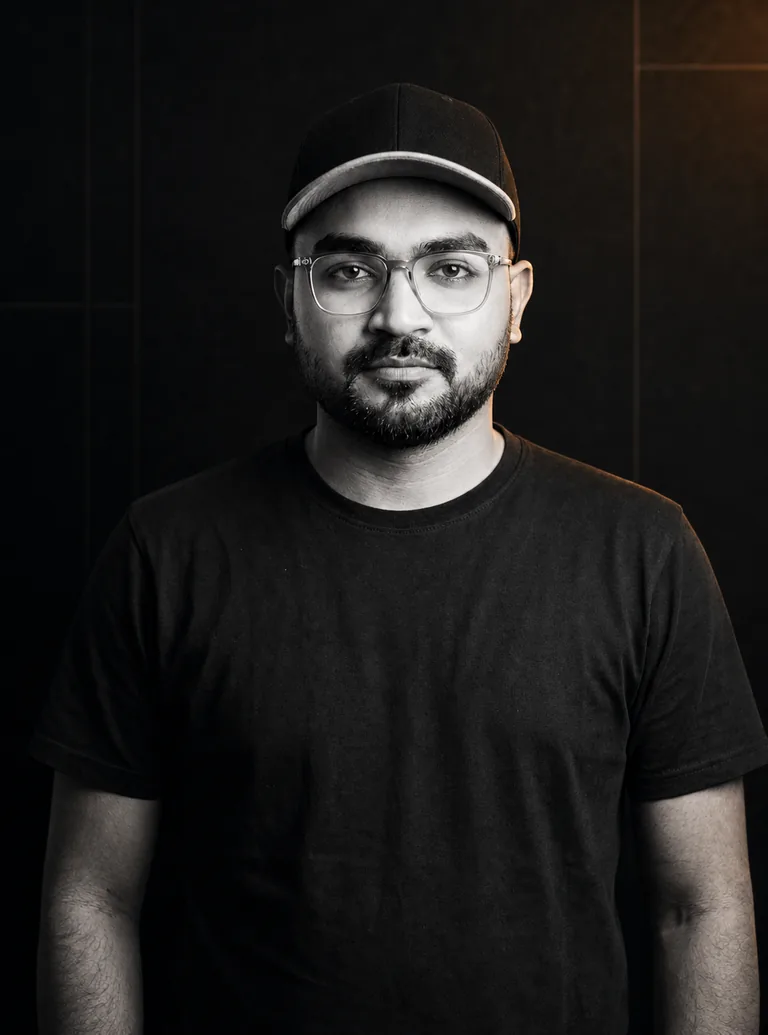
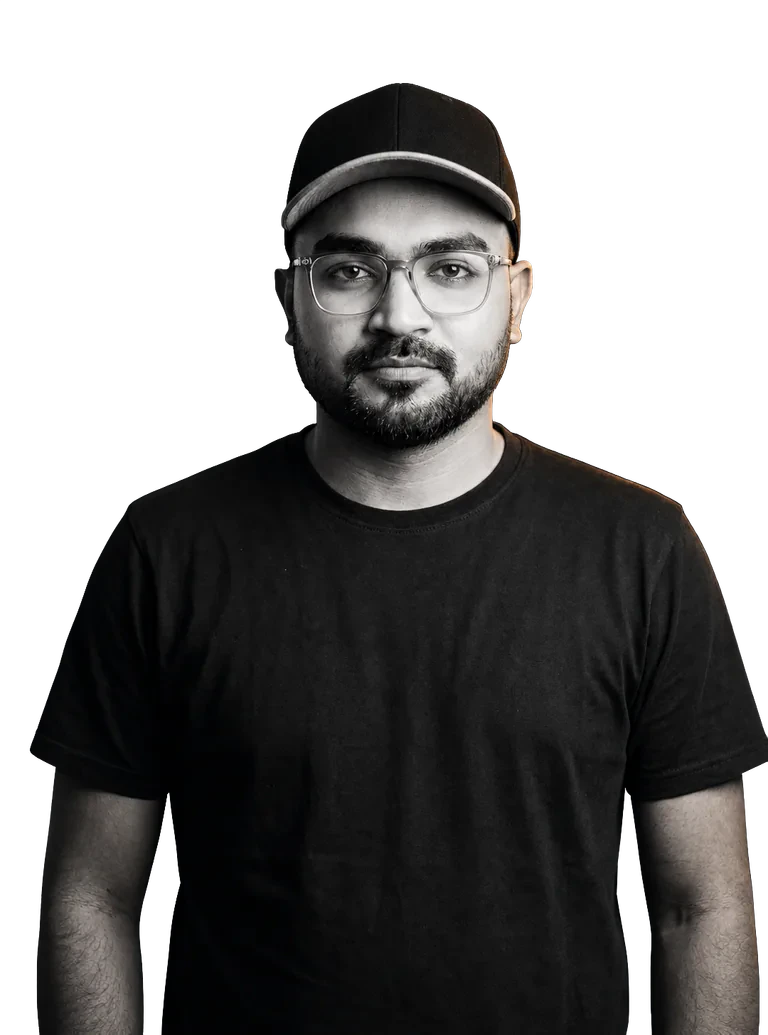
Update typography and animations across various sections
- Adjusted font weights in multiple components for consistency, changing from bold to medium in sections such as About, Blog, Contact, Experience, Projects, and Tech Stack.
- Updated animation parameters in the Hero section for improved visual performance.
- Replaced the editorial image in the public directory for enhanced visual appeal.

diff --git a/src/components/hero-section.tsx b/src/components/hero-section.tsx
@@ -15,10 +15,10 @@ export default function HeroSection() {
 
     animate(root.querySelectorAll(".hero-reveal"), {
       opacity: { from: 0 },
-      y: { from: 18 },
-      delay: stagger(85),
-      duration: 680,
-      ease: "out(4)",
+      y: { from: 12 },
+      delay: stagger(55),
+      duration: 520,
+      ease: "out(3)",
     })
 
     const portrait = root.querySelector(".editorial-portrait")
@@ -26,8 +26,8 @@ export default function HeroSection() {
       animate(portrait, {
         opacity: { from: 0 },
         clipPath: ["inset(0 0 100% 0)", "inset(0 0 0% 0)"],
-        duration: 900,
-        delay: 180,
+        duration: 720,
+        delay: 120,
         ease: "inOutCubic",
       })
     }
@@ -44,7 +44,7 @@ export default function HeroSection() {
             Software Engineer · Dhaka, Bangladesh
           </div>
 
-          <h1 className="hero-reveal mt-7 max-w-5xl text-5xl font-bold leading-[0.92] tracking-[-0.065em] sm:text-6xl lg:text-[6.4rem]">
+          <h1 className="hero-reveal mt-7 max-w-5xl text-5xl font-semibold leading-[0.92] tracking-[-0.065em] sm:text-6xl lg:text-[6.4rem]">
             <span className="mb-5 block font-mono text-sm font-medium uppercase tracking-[0.16em] text-muted-foreground sm:text-base">
               {siteConfig.primaryName}
             </span>
@@ -86,7 +86,7 @@ export default function HeroSection() {
 
         <div className="order-1 flex justify-center lg:order-2 lg:justify-end">
           <figure className="editorial-portrait relative w-full max-w-[24rem]">
-            <div className="editorial-portrait-frame relative aspect-[4/5] overflow-hidden border border-border bg-muted">
+            <div className="editorial-portrait-frame relative aspect-[4/5] overflow-hidden border border-border bg-transparent">
               <Image
                 src={siteConfig.images.portrait}
                 alt={`${siteConfig.primaryName}, Software Engineer and Mobile Developer`}

diff --git a/src/components/scroll-story-section.tsx b/src/components/scroll-story-section.tsx
@@ -56,9 +56,10 @@ export function ScrollStorySection() {
           text: storySteps[activeIndex].phrase,
           chars: "lowercase",
           cursor: "_",
-          revealRate: 48,
-          settleDuration: 240,
-          perturbation: 0.12,
+          revealRate: 100,
+          settleDuration: 140,
+          settleRate: 60,
+          perturbation: 0.06,
         }),
       })
     }
@@ -106,7 +107,7 @@ export function ScrollStorySection() {
             <p id="story-title" className="text-lg text-muted-foreground sm:text-xl">
               I build by
             </p>
-            <p className="story-phrase mt-3 min-h-[2.2em] max-w-4xl text-5xl font-bold leading-[0.96] tracking-[-0.055em] lg:text-7xl">
+            <p className="story-phrase mt-3 min-h-[2.2em] max-w-4xl text-5xl font-semibold leading-[0.96] tracking-[-0.055em] lg:text-7xl">
               {storySteps[0].phrase}
             </p>
           </div>
@@ -115,7 +116,7 @@ export function ScrollStorySection() {
         <div className="story-mobile mx-auto grid max-w-7xl gap-8 px-4 py-20 md:hidden">
           <div>
             <p className="section-kicker">How I build</p>
-            <h2 className="mt-3 text-3xl font-bold tracking-tight">Four moves behind every product.</h2>
+            <h2 className="mt-3 text-3xl font-semibold tracking-tight">Four moves behind every product.</h2>
           </div>
           <ol className="divide-y divide-border border-y border-border">
             {storySteps.map((step) => (

diff --git a/src/components/tech-stack-section.tsx b/src/components/tech-stack-section.tsx
@@ -77,7 +77,7 @@ export function TechStackSection() {
         <div className="grid gap-8 border-b border-border pb-10 lg:grid-cols-[0.65fr_1.35fr] lg:items-end">
           <div>
             <p className="section-kicker">Working stack</p>
-            <h2 id="tech-stack-title" className="mt-3 text-4xl font-semibold tracking-[-0.04em] sm:text-5xl">
+            <h2 id="tech-stack-title" className="mt-3 text-4xl font-medium tracking-[-0.04em] sm:text-5xl">
               Tools chosen for the product, not the trend.
             </h2>
           </div>
@@ -93,7 +93,7 @@ export function TechStackSection() {
               className="border-b border-border py-8 md:border-r md:px-7 md:[&:nth-child(2n)]:border-r-0 xl:border-b-0 xl:[&:nth-child(2n)]:border-r xl:[&:last-child]:border-r-0"
             >
               <p className="font-mono text-xs text-orange-500">{String(groupIndex + 1).padStart(2, "0")}</p>
-              <h3 className="mt-4 text-xl font-semibold">{group.title}</h3>
+              <h3 className="mt-4 text-xl font-medium">{group.title}</h3>
               <p className="mt-2 min-h-12 text-sm leading-6 text-muted-foreground">{group.description}</p>
               <ul className="mt-7 space-y-1" aria-label={`${group.title} technologies`}>
                 {group.technologies.map(({ name, icon: Icon }) => (

diff --git a/src/components/experience-section.tsx b/src/components/experience-section.tsx
@@ -55,7 +55,7 @@ export default function ExperienceSection() {
         <div className="grid gap-8 lg:grid-cols-[0.65fr_1.35fr]">
           <div className="lg:sticky lg:top-28 lg:self-start">
             <p className="section-kicker">Career timeline</p>
-            <h2 id="experience-title" className="mt-3 text-4xl font-semibold tracking-[-0.04em] sm:text-5xl">
+            <h2 id="experience-title" className="mt-3 text-4xl font-medium tracking-[-0.04em] sm:text-5xl">
               Building with teams, learning through products.
             </h2>
             <p className="mt-5 max-w-md leading-7 text-muted-foreground">
@@ -81,7 +81,7 @@ export default function ExperienceSection() {
 
                 <article>
                   <p className="font-mono text-xs uppercase tracking-[0.14em] text-orange-500">{experience.company}</p>
-                  <h3 className="mt-2 text-2xl font-semibold tracking-tight">{experience.position}</h3>
+                  <h3 className="mt-2 text-2xl font-medium tracking-tight">{experience.position}</h3>
                   <p className="mt-2 inline-flex items-center gap-1.5 text-sm text-muted-foreground">
                     <MapPin className="h-3.5 w-3.5" aria-hidden />
                     {experience.location}

diff --git a/src/components/contact-section.tsx b/src/components/contact-section.tsx
@@ -156,7 +156,7 @@ export default function ContactSection() {
         <div className="grid gap-14 lg:grid-cols-[0.82fr_1.18fr] lg:gap-20">
           <div>
             <p className="section-kicker">Start a conversation</p>
-            <h2 id="contact-title" className="mt-4 max-w-xl text-4xl font-semibold leading-[1.02] tracking-[-0.045em] sm:text-6xl">
+            <h2 id="contact-title" className="mt-4 max-w-xl text-4xl font-medium leading-[1.02] tracking-[-0.045em] sm:text-6xl">
               Have a useful product in mind?
             </h2>
             <p className="mt-6 max-w-lg text-base leading-7 text-muted-foreground sm:text-lg">
@@ -177,7 +177,7 @@ export default function ContactSection() {
 
           <div className="border-t border-border pt-8 lg:pt-10">
             <div className="mb-8 flex items-baseline justify-between gap-4">
-              <h3 className="text-xl font-semibold">Send a message</h3>
+              <h3 className="text-xl font-medium">Send a message</h3>
               <span className="font-mono text-[10px] uppercase tracking-[0.12em] text-muted-foreground">Usually replies within 1–2 days</span>
             </div>
 

diff --git a/src/components/projects-section.tsx b/src/components/projects-section.tsx
@@ -84,7 +84,7 @@ export function ProjectsSection() {
         <div className="grid gap-8 border-b border-border pb-10 lg:grid-cols-[0.65fr_1.35fr] lg:items-end">
           <div>
             <p className="section-kicker">Selected work</p>
-            <h2 id="projects-title" className="mt-3 text-4xl font-semibold tracking-[-0.04em] sm:text-5xl">
+            <h2 id="projects-title" className="mt-3 text-4xl font-medium tracking-[-0.04em] sm:text-5xl">
               Products built for real-world use.
             </h2>
           </div>
@@ -105,7 +105,7 @@ export function ProjectsSection() {
               </div>
 
               <div>
-                <h3 className="text-2xl font-semibold tracking-tight sm:text-3xl">{project.name}</h3>
+                <h3 className="text-2xl font-medium tracking-tight sm:text-3xl">{project.name}</h3>
                 <ul className="mt-5 flex flex-wrap gap-x-4 gap-y-2" aria-label={`${project.name} technologies`}>
                   {project.technology.map((tech) => (
                     <li key={tech} className="font-mono text-[11px] uppercase tracking-[0.08em] text-foreground/65">

diff --git a/src/components/about-section.tsx b/src/components/about-section.tsx
@@ -16,7 +16,7 @@ export default function AboutSection() {
 
         <StaggerContainer className="grid items-start gap-12 lg:grid-cols-[0.85fr_1.15fr] lg:gap-20">
           <StaggerItem>
-            <h2 id="about-title" className="text-3xl font-semibold leading-tight tracking-[-0.04em] sm:text-4xl lg:text-5xl">
+            <h2 id="about-title" className="text-3xl font-medium leading-tight tracking-[-0.04em] sm:text-4xl lg:text-5xl">
               Engineering products from idea to{" "}
               <span className="text-gradient">everyday use.</span>
             </h2>
@@ -44,7 +44,7 @@ export default function AboutSection() {
           {highlights.map((highlight) => (
             <StaggerItem key={highlight.label}>
               <div className="h-full bg-background p-6 sm:p-7">
-                <p className="font-mono text-2xl font-bold text-orange-500">
+                <p className="font-mono text-2xl font-semibold text-orange-500">
                   {highlight.value}
                 </p>
                 <p className="mt-1 text-sm text-muted-foreground">{highlight.label}</p>

diff --git a/src/components/blog-section.tsx b/src/components/blog-section.tsx
@@ -20,7 +20,7 @@ function BlogShell({ children }: { children: ReactNode }) {
         <div className="grid gap-8 pb-10 lg:grid-cols-[0.65fr_1.35fr] lg:items-end">
           <div>
             <p className="section-kicker">Writing</p>
-            <h2 id="blog-title" className="mt-3 text-4xl font-semibold tracking-[-0.04em] sm:text-5xl">Notes from the work.</h2>
+            <h2 id="blog-title" className="mt-3 text-4xl font-medium tracking-[-0.04em] sm:text-5xl">Notes from the work.</h2>
           </div>
           <p className="max-w-2xl leading-7 text-muted-foreground lg:justify-self-end lg:text-lg">
             Practical thoughts on mobile development, engineering decisions, and building better product experiences.

diff --git a/src/components/blog-post-grid.tsx b/src/components/blog-post-grid.tsx
@@ -35,7 +35,7 @@ export function BlogPostGrid({ posts }: { posts: BlogPost[] }) {
             >
               <span className="font-mono text-xs text-muted-foreground">{String(index + 1).padStart(2, "0")}</span>
               <div>
-                <h3 className="max-w-3xl text-xl font-semibold leading-snug tracking-tight transition-colors duration-200 group-hover:text-orange-600 group-focus-within:text-orange-600 sm:text-2xl">
+                <h3 className="max-w-3xl text-xl font-medium leading-snug tracking-tight transition-colors duration-200 group-hover:text-orange-600 group-focus-within:text-orange-600 sm:text-2xl">
                   {post.title}
                 </h3>
                 {post.description ? (

diff --git a/src/components/navigation.tsx b/src/components/navigation.tsx
@@ -38,7 +38,7 @@ export function Navigation() {
     >
       <div className="container max-w-7xl mx-auto px-4">
         <div className="flex h-16 items-center justify-between">
-          <Link href="#home" className="text-xl font-bold tracking-[-0.04em] transition-colors duration-200 hover:text-orange-500 focus-visible:text-orange-500">
+          <Link href="#home" className="text-xl font-semibold tracking-[-0.04em] transition-colors duration-200 hover:text-orange-500 focus-visible:text-orange-500">
             sohan.dev
           </Link>
 

diff --git a/src/components/ui/card.tsx b/src/components/ui/card.tsx
@@ -32,7 +32,7 @@ function CardTitle({ className, ...props }: React.ComponentProps<"div">) {
   return (
     <div
       data-slot="card-title"
-      className={cn("leading-none font-semibold", className)}
+      className={cn("leading-none font-medium", className)}
       {...props}
     />
   )

diff --git a/src/app/globals.css b/src/app/globals.css
@@ -136,7 +136,7 @@
   color: var(--portfolio-accent);
   font-family: var(--font-geist-mono), monospace;
   font-size: 0.75rem;
-  font-weight: 700;
+  font-weight: 600;
   letter-spacing: 0.18em;
   text-transform: uppercase;
 }
